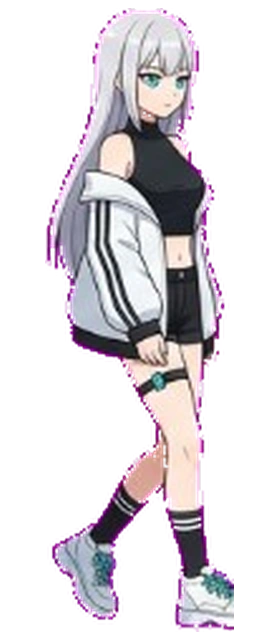
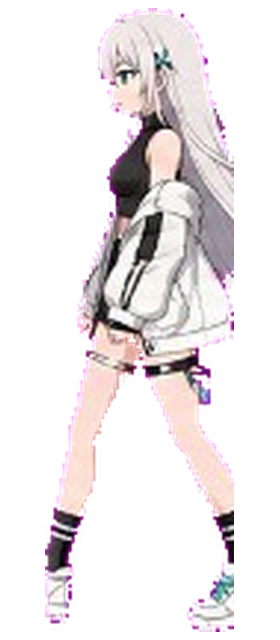
feat: use numbered 26-frame walk sheet facing right

diff --git a/frontend/web/src/components/AgentPresence.tsx b/frontend/web/src/components/AgentPresence.tsx
@@ -10,7 +10,7 @@ const BODY_WIDTH = 150;
 const EDGE_PAD = 8;
 const WALK_FRAMES = 26;
 /** Bump when replacing /brand walk sprites so browsers don't keep stale webp. */
-const ASSET_REV = "walk26-ltr-slow4";
+const ASSET_REV = "walk26-numbered-1";
 
 function brandUrl(path: string) {
   return `${path}?v=${ASSET_REV}`;
@@ -174,8 +174,8 @@ export function AgentPresence({ busy = false }: AgentPresenceProps) {
       ? brandUrl(`/brand/agent-walk-${frame}.webp`)
       : brandUrl("/brand/agent-presence.webp");
 
-  // Sprites face LEFT. facing: 1 = move right, -1 = move left.
-  const scaleX = facing >= 0 ? -1 : 1;
+  // Sprites face RIGHT. facing: 1 = move right, -1 = move left.
+  const scaleX = facing >= 0 ? 1 : -1;
 
   return (
     <aside
